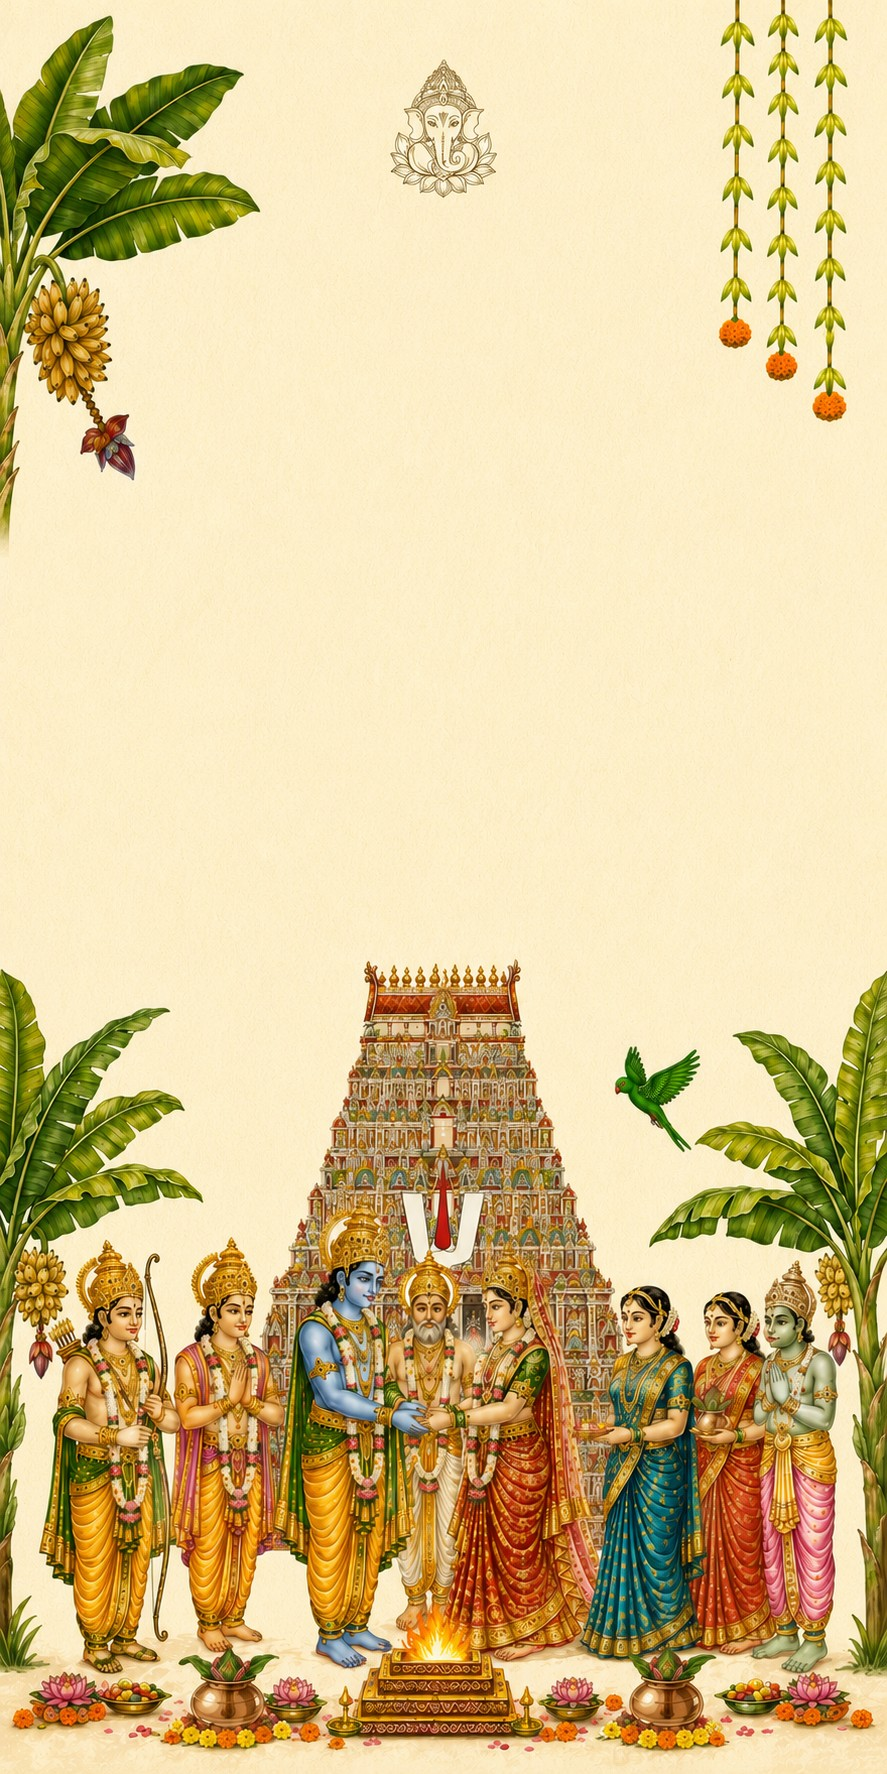
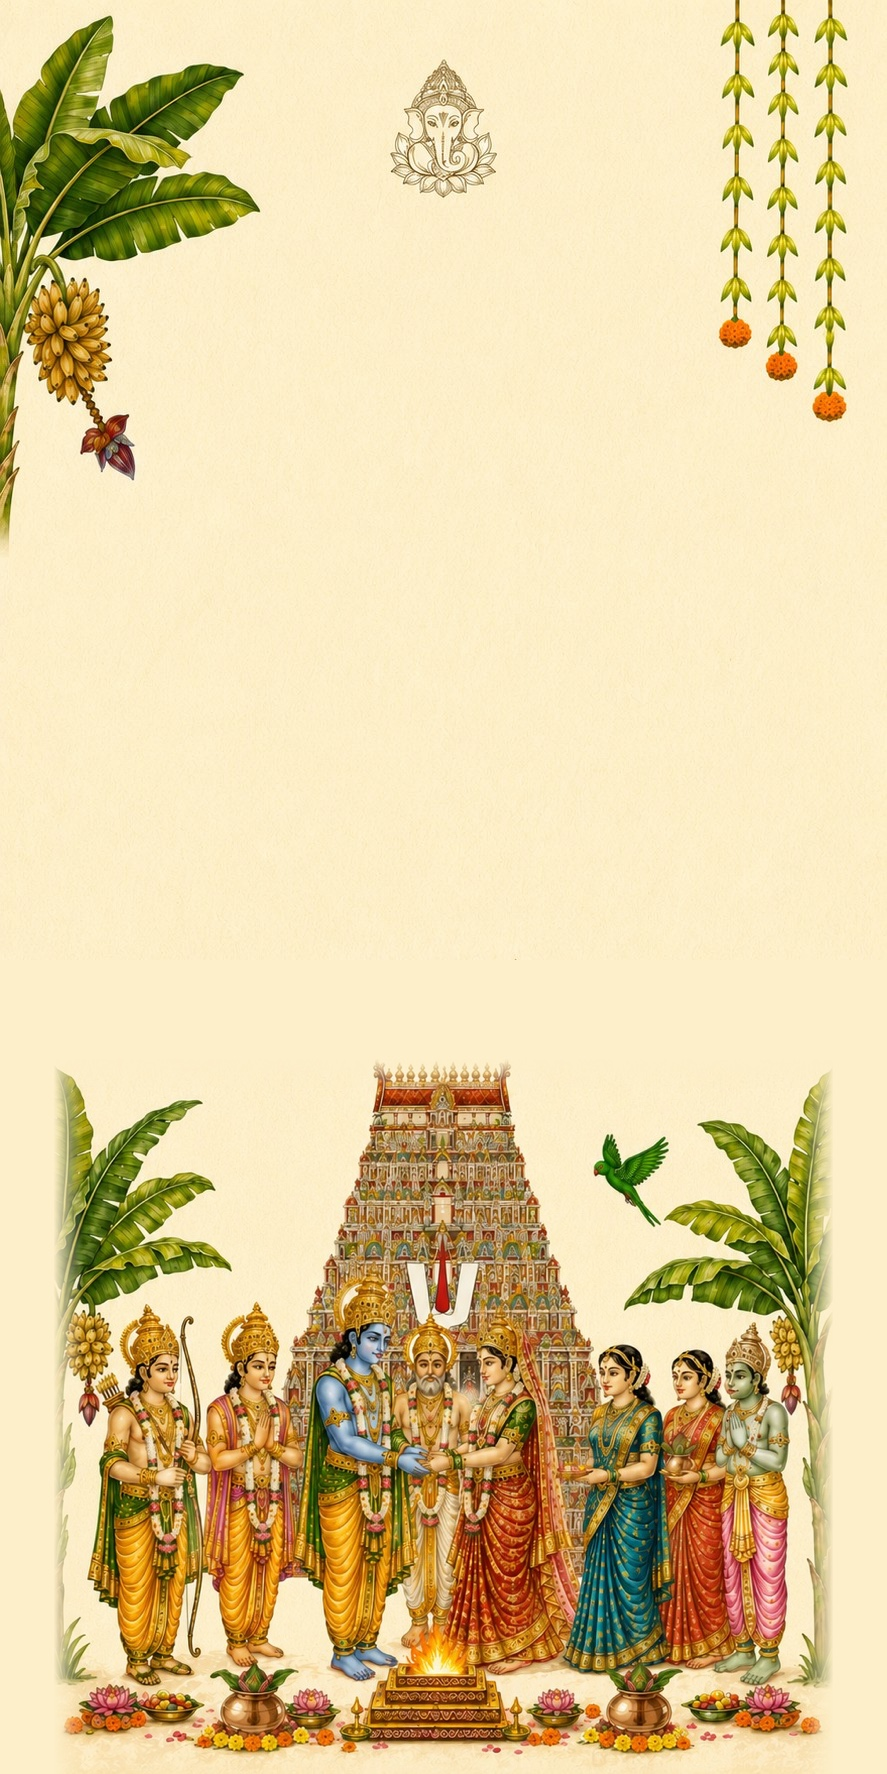
Page 1: decrease size of down temple illustration slightly for optimal breathing room

diff --git a/index.html b/index.html
@@ -12,7 +12,7 @@
   <link rel="apple-touch-icon" href="assets/icons/apple-touch-icon.png">
 
   <!-- Preload Critical Above-the-fold Assets -->
-  <link rel="preload" href="assets/banners/entry-card.jpg" as="image">
+  <link rel="preload" href="assets/banners/entry-card.jpg?v=2.8" as="image">
   <link rel="preload" href="assets/images/hero-poster.jpg" as="image">
 
   <!-- Typography: Google Fonts Preconnect & Load with font-display: swap -->
@@ -20,10 +20,10 @@
   <link rel="preconnect" href="https://fonts.gstatic.com" crossorigin>
   <link href="https://fonts.googleapis.com/css2?family=Cinzel:wght@400;500;600;700&family=Cormorant+Garamond:ital,wght@0,400;0,500;0,600;0,700;1,400;1,600&family=Great+Vibes&family=Marcellus&family=Noto+Sans+Telugu:wght@400;600;700&family=Noto+Serif+Telugu:wght@400;600;700&family=Playfair+Display:ital,wght@0,400;0,600;0,700;1,400&display=swap" rel="stylesheet">
 
-  <link rel="stylesheet" href="style.css?v=2.7">
+  <link rel="stylesheet" href="style.css?v=2.8">
 
   <!-- Central Wedding Configuration (Separates Content from Engine) -->
-  <script src="wedding-config.js?v=2.7"></script>
+  <script src="wedding-config.js?v=2.8"></script>
 </head>
 <body class="km-body km-no-scroll">
 
@@ -51,7 +51,7 @@
     <div class="km-entry__veil">
       <div class="km-entry__card">
         <!-- Entry Banner Card Artwork -->
-        <img src="assets/banners/entry-card.jpg" alt="Traditional Wedding Invitation Scene with Gopuram and Sita Rama Kalyanam" class="km-entry__art" fetchpriority="high" width="480" height="960">
+        <img src="assets/banners/entry-card.jpg?v=2.8" alt="Traditional Wedding Invitation Scene with Gopuram and Sita Rama Kalyanam" class="km-entry__art" fetchpriority="high" width="480" height="960">
         
         <!-- Faint Gold Mandala Watermark -->
         <img src="assets/images/mandala-gold.webp" alt="" class="km-entry__mandala" aria-hidden="true" width="340" height="340">
@@ -478,6 +478,6 @@
     </div>
   </div>
 
-  <script src="script.js?v=2.7"></script>
+  <script src="script.js?v=2.8"></script>
 </body>
 </html>
